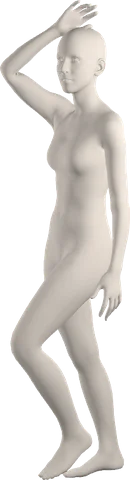
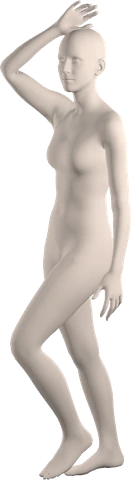
Update Explorer body renders and use transparent orbit cards.
Refresh center SMPL-X bodies from foot-grounded Ref/body_render exports and remove white card chrome from the garment/try-on orbit layers.

diff --git a/FitVTON/index.html b/FitVTON/index.html
@@ -92,20 +92,20 @@
       top: 50%; left: 50%;
       width: 120px; height: 160px;
       margin: -80px 0 0 -60px;
-      border-radius: 10px;
-      background: #fff;
-      border: 1px solid var(--border);
-      box-shadow: 0 4px 14px rgba(31, 35, 40, 0.10);
-      overflow: hidden;
+      background: transparent;
+      border: none;
+      box-shadow: none;
+      overflow: visible;
       will-change: transform, opacity;
       pointer-events: auto;
     }
     .orbit-card img {
       width: 100%; height: 100%;
       object-fit: contain;
-      padding: 6px;
+      padding: 0;
       display: block;
       pointer-events: none;
+      filter: drop-shadow(0 4px 10px rgba(31, 35, 40, 0.14));
     }
     .center-stage {
       position: absolute;

diff --git a/FitVTON/scripts/build_body_demo_assets.py b/FitVTON/scripts/build_body_demo_assets.py
@@ -1,0 +1,81 @@
+#!/usr/bin/env python3
+"""Regenerate Explorer center body webps from GarmentCodeVTON Ref/body_render."""
+
+from __future__ import annotations
+
+import argparse
+from pathlib import Path
+
+import numpy as np
+from PIL import Image
+
+# Inferred from legacy demo webp silhouettes (pose0 / render_front).
+BODY_SOURCES = {
+    0: "female4",
+    1: "female1",
+    2: "female3",
+    3: "female2",
+    4: "female0",
+    5: "female6",
+    6: "female9",
+    7: "female5",
+    8: "female7",
+    9: "female8",
+}
+
+
+def png_to_body_webp(
+    png_path: Path,
+    webp_path: Path,
+    *,
+    target_h: int = 480,
+    white_thresh: int = 250,
+    quality: int = 92,
+) -> None:
+    im = Image.open(png_path).convert("RGBA")
+    arr = np.array(im)
+    white = (
+        (arr[:, :, 0] > white_thresh)
+        & (arr[:, :, 1] > white_thresh)
+        & (arr[:, :, 2] > white_thresh)
+    )
+    arr[white, 3] = 0
+    im = Image.fromarray(arr)
+    bbox = im.getbbox()
+    if bbox:
+        im = im.crop(bbox)
+    new_w = max(1, round(im.width * (target_h / im.height)))
+    im = im.resize((new_w, target_h), Image.Resampling.LANCZOS)
+    webp_path.parent.mkdir(parents=True, exist_ok=True)
+    im.save(webp_path, "WEBP", quality=quality, method=6)
+
+
+def main() -> None:
+    parser = argparse.ArgumentParser(description=__doc__)
+    parser.add_argument(
+        "--body-render-root",
+        type=Path,
+        default=Path(__file__).resolve().parents[3]
+        / "GarmentCodeVTON_v3"
+        / "Ref"
+        / "body_render",
+    )
+    parser.add_argument(
+        "--output-dir",
+        type=Path,
+        default=Path(__file__).resolve().parents[1] / "assets" / "demo",
+    )
+    parser.add_argument("--pose-id", default="pose0")
+    args = parser.parse_args()
+
+    for slot, body_name in BODY_SOURCES.items():
+        png = args.body_render_root / body_name / args.pose_id / "render_front.png"
+        if not png.exists():
+            raise SystemExit(f"Missing source render: {png}")
+        out = args.output_dir / f"body_{slot}.webp"
+        png_to_body_webp(png, out)
+        print(f"body_{slot}.webp <- {body_name}/{args.pose_id}/render_front.png")
+
+
+if __name__ == "__main__":
+    main()
